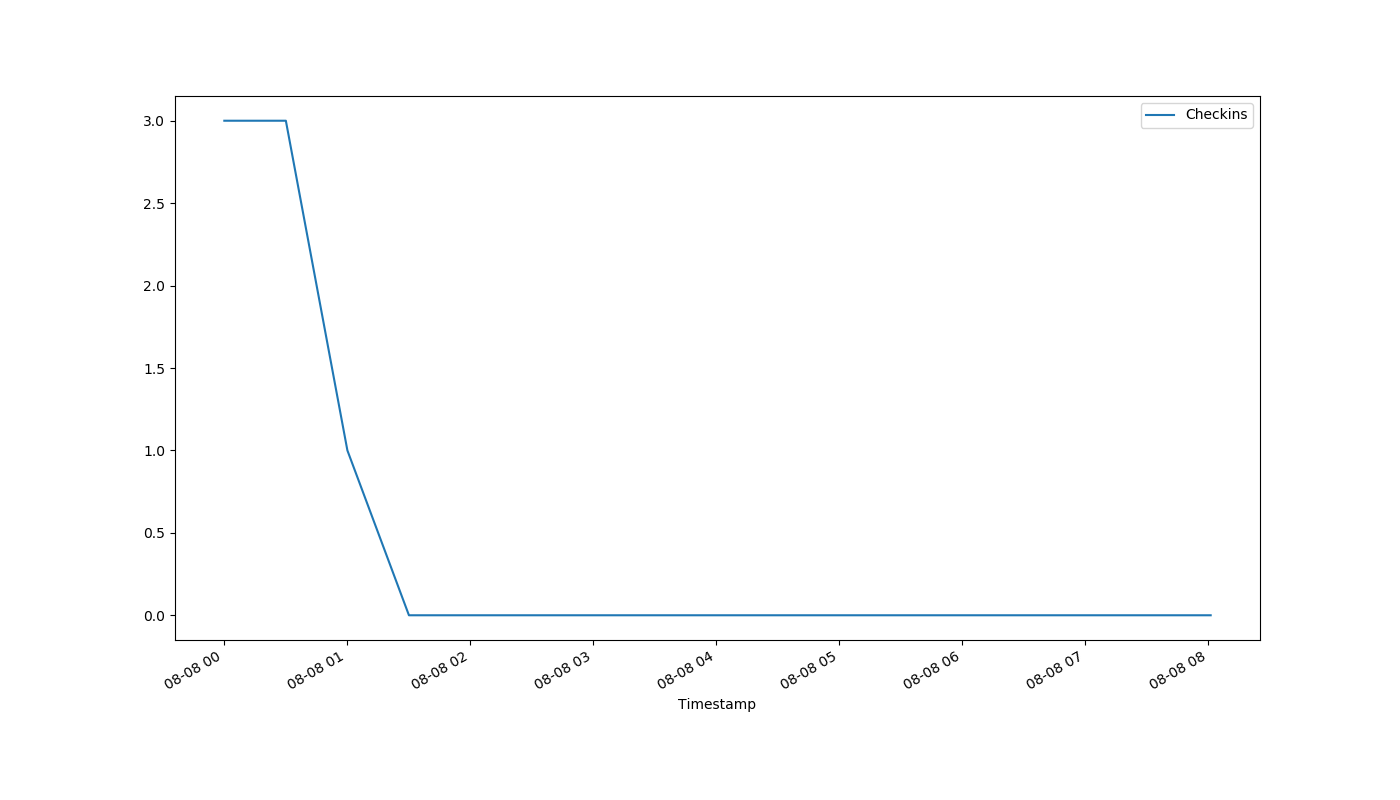
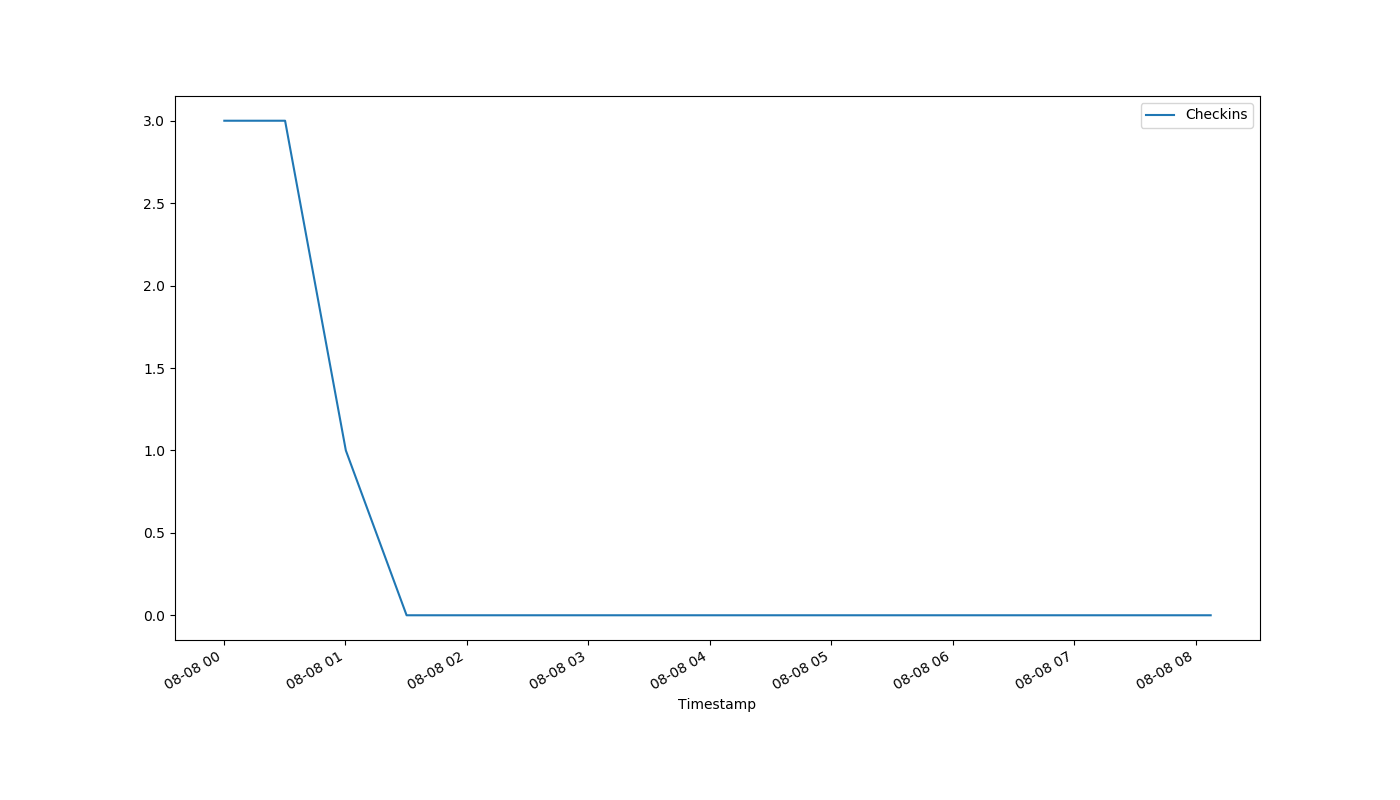
auto-Aug-08-08:09:18

diff --git a/index.html b/index.html
@@ -1,1 +1,1 @@
-<!DOCTYPE html><html><head><meta http-equiv="refresh" content="30"><link rel='stylesheet' href='holmcurrent.css'></head><body><p id='count'>0</p><div id='graph-wrap'><img id='graph' src='holmgraph-Aug-08.png'></div><p id='updated'>Last updated 08:02:02 / 08:01:15</p></body></html>
+<!DOCTYPE html><html><head><meta http-equiv="refresh" content="30"><link rel='stylesheet' href='holmcurrent.css'></head><body><p id='count'>0</p><div id='graph-wrap'><img id='graph' src='holmgraph-Aug-08.png'></div><p id='updated'>Last updated 08:08:02 / 08:07:25</p></body></html>
